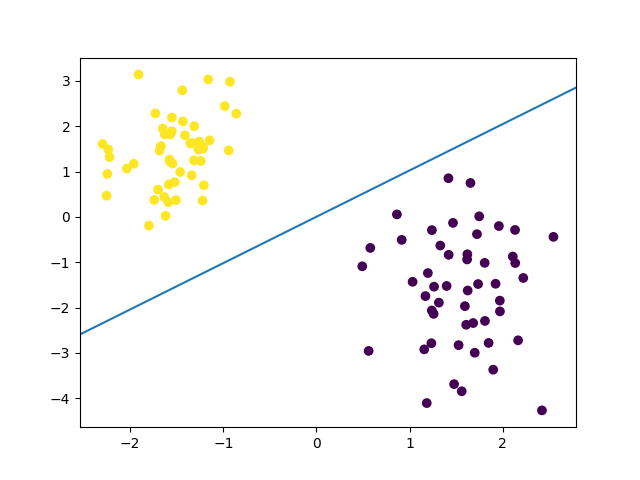
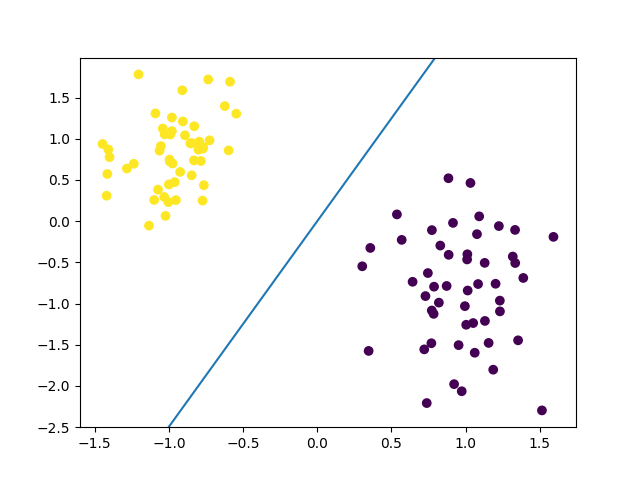
Adaline

diff --git a/02_Adaline/main.py b/02_Adaline/main.py
@@ -1,8 +1,9 @@
+from locale import normalize
 import numpy as np
 import matplotlib.pyplot as plt
 from sklearn.datasets import  make_classification
 from Adaline import Adaline
-from sklearn.preprocessing import Normalizer
+from sklearn.preprocessing import StandardScaler
 
 # Generació del conjunt de mostres
 X, y = make_classification(n_samples=100, n_features=2, n_redundant=0, n_repeated=0,
@@ -12,30 +13,32 @@ y[y == 0] = -1  # La nostra implementació esta pensada per tenir les classes 1 
 
 
 # TODO: Normalitzar les dades
-normalizedX = Normalizer().fit_transform(X)
+scaler = StandardScaler()
+normalizedX = scaler.fit_transform(X)
 # TODO: Entrenar usant l'algorisme de Batch gradient
-adaline = Adaline(eta=0.00000001, n_iter=100)
-# TODO: Mostrar els resultats
-adaline.fit(X, y)
 
-y_prediction = adaline.predict(X)
+n_iter = 500
+
+adaline = Adaline(eta=0.0001, n_iter=n_iter)
+# TODO: Mostrar els resultats
+adaline.fit(normalizedX, y)
 
 ###  Mostram els resultats
 plt.figure(1)
 # Dibuixam el núvol de punts (el parametre c indica que colorejam segons la classe)
-plt.scatter(X[:, 0], X[:, 1], c=y)
+plt.scatter(normalizedX[:, 0], normalizedX[:, 1], c=y)
 
 # Dibuixem la recta. Usam l'equació punt-pendent
 m = -adaline.w_[1] / adaline.w_[2]
 origen = (0, -adaline.w_[0] / adaline.w_[2])
 plt.axline(xy1=origen, slope=m)
-plt.savefig('output.png')
+# plt.savefig('output.png')
 plt.show()
 
 ### Extra: Dibuixam el nombre d'errors en cada iteracio de l'algorisme
-# plt.figure(2)
-# plt.plot(adaline.errors_, marker='o')
-# plt.xlabel('Iterations')
-# plt.ylabel('Number of errors')
-# plt.show()
+plt.figure(2)
+plt.plot(range(1, n_iter + 1), adaline.cost_)
+plt.xlabel('Epochs')
+plt.ylabel('Sum of squared error')
 # plt.savefig('output-errors.png')
+plt.show()

diff --git a/02_Adaline/Adaline.py b/02_Adaline/Adaline.py
@@ -41,17 +41,13 @@ class Adaline:
         """
         self.w_ = np.zeros(1 + X.shape[1])
         self.cost_ = []
-        self.errors_ = []
 
         for _ in range(self.n_iter):
-            update = []
-            for xi, target in zip(X, y): 
-                diff = target - self.predict(xi)
-                update.append(-self.eta * diff)
-            # UPDATE WEIGHTS
-            self.w_[0] += np.sum(update)
-            self.w_[1:] += np.dot(update, X)
-
+            error = (y - self.net_input(X))
+            self.w_[1:] += self.eta * X.T.dot(error)
+            self.w_[0] += self.eta * error.sum()
+            cost = (error ** 2).sum() / 2
+            self.cost_.append(cost)
         return self
 
 
